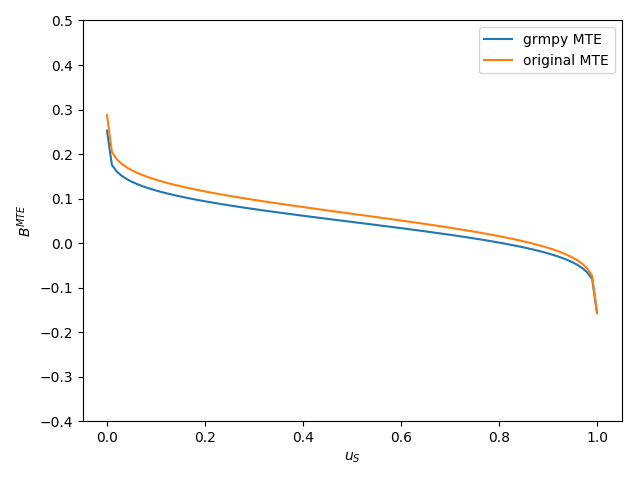
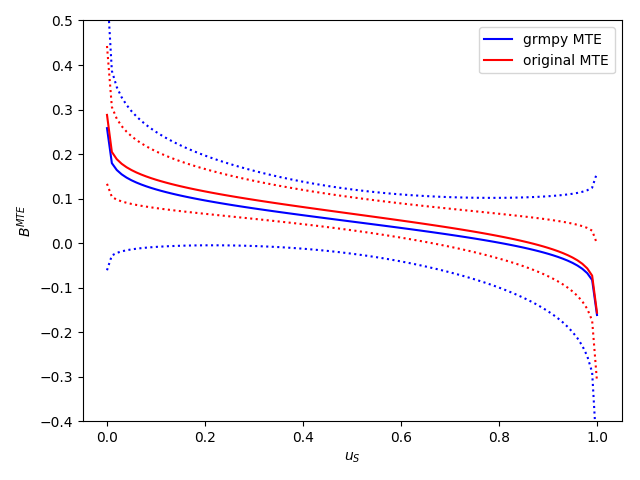
Added hessian matrix approximation tothe estimation process / Added ses to estimation output file / changed replication framework so that it provides the confidence intervals of the mte

diff --git a/grmpy/estimate/estimate_auxiliary.py b/grmpy/estimate/estimate_auxiliary.py
@@ -1,9 +1,11 @@
 """The module provides auxiliary functions for the estimation process"""
 from statsmodels.tools.sm_exceptions import PerfectSeparationError
+from statsmodels.tools.numdiff import approx_hess3
 from scipy.stats import norm
 import statsmodels.api as sm
 import pandas as pd
 import numpy as np
+import math
 
 from grmpy.simulate.simulate_auxiliary import construct_covariance_matrix
 from grmpy.simulate.simulate_auxiliary import simulate_unobservables
@@ -184,10 +186,13 @@ def calculate_criteria(init_dict, data_frame, start_values):
     return criteria
 
 
-def print_logfile(init_dict, rslt):
+def print_logfile(init_dict, rslt, data):
     """The function writes the log file for the estimation process."""
     # Adjust output
     init_dict, rslt = adjust_print_output(init_dict, rslt)
+    rslt = calculate_se(rslt, init_dict, data)
+    auxiliary_list = process_se_log(rslt, init_dict)
+    print(auxiliary_list)
     with open('est.grmpy.info', 'w') as file_:
 
         for label in ['Optimization Information', 'Criterion Function', 'Economic Parameters']:
@@ -234,11 +239,11 @@ def print_logfile(init_dict, rslt):
 
             else:
                 file_.write(fmt.format(*['', 'Identifier', 'Start', 'Finish']) + '\n\n')
-                fmt = '  {:>10}' * 2 + ' {:>20.4f}' * 2
+                fmt = '  {:>10}' * 2 + ' {:>20.4f}' * 2 + '{:>10}'
                 for i in range(len(rslt['AUX']['x_internal'])):
                     file_.write('{0}\n'.format(
                         fmt.format('', str(i), init_dict['AUX']['starting_values'][i],
-                                   rslt['AUX']['x_internal'][i])))
+                                   rslt['AUX']['x_internal'][i], auxiliary_list[i])))
 
 
 def optimizer_options(init_dict_):
@@ -604,3 +609,78 @@ def calculate_mte(rslt, data_frame, quant=None):
         return value, args
     else:
         return value
+
+
+def calculate_se(rslt, init_dict, data_frame):
+    """This function calculates the standard errors for given parameterization via an approximation
+    of the hessian matrix."""
+
+    x0 = process_estimation_results(rslt['AUX']['x_internal'].tolist())
+    hess = approx_hess3(x0, loglikelihood_without_cholsky, args=(init_dict, data_frame),
+                        epsilon=0.000001)
+    hess_inv = np.linalg.inv(hess)
+    se = np.sqrt(np.diag(hess_inv) / data_frame.shape[0])
+    rslt['AUX']['standard_errors'] = se
+    rslt['AUX']['hess_inv'] = hess_inv
+    return rslt
+
+
+def process_estimation_results(x0):
+    """This """
+    pseudo_x0 = x0[:-6]
+    pseudo_dist = [x0[-1]] + [x0[-6]] + x0[-4:-1]
+    x0 = pseudo_x0 + pseudo_dist
+    return x0
+
+
+def loglikelihood_without_cholsky(x, init_dict, data_frame):
+    """The function provides the log-likelihood function for the calculation of the standard errors.
+    """
+    n_treated = init_dict['AUX']['num_covars_treated']
+    n_untreated = n_treated + int(init_dict['AUX']['num_covars_untreated'])
+
+    beta1 = x[:n_treated]
+    beta0 = x[n_treated:n_untreated]
+    gamma = x[n_untreated:-5]
+    sd1, sd0, sdv, rho1v, rho0v = x[-4], x[-2], x[-5], x[-3], x[-1]
+    likl = []
+    indicator = init_dict['ESTIMATION']['indicator']
+    dep = init_dict['ESTIMATION']['dependent']
+    for i in [0.0, 1.0]:
+        if i == 1.0:
+            beta, gamma, rho, sd, sdv = beta1, gamma, rho1v, sd1, sdv
+            key_ = 'TREATED'
+        else:
+            beta, gamma, rho, sd, sdv = beta0, gamma, rho0v, sd0, sdv
+            key_ = 'UNTREATED'
+        data = data_frame[data_frame[indicator] == i]
+        Z = data[[init_dict['varnames'][j - 1] for j in init_dict['CHOICE']['order']]]
+        X = data[[init_dict['varnames'][j - 1] for j in init_dict[key_]['order']]]
+
+        choice_ = pd.DataFrame.sum(gamma * Z, axis=1)
+        part1 = (data[dep] - pd.DataFrame.sum(beta * X, axis=1)) / sd
+        part2 = (choice_ - rho * sdv * part1) / (np.sqrt((1 - rho ** 2) * sdv ** 2))
+        dist_1, dist_2 = norm.pdf(part1), norm.cdf(part2)
+
+        if i == 1.0:
+            contrib = (1.0 / sd) * dist_1 * dist_2
+
+        else:
+            contrib = (1.0 / sd) * dist_1 * (1.0 - dist_2)
+
+        likl.append(contrib)
+    likl = np.append(likl[0], likl[1])
+    likl = - np.mean(np.log(np.clip(likl, 1e-20, np.inf)))
+
+    return likl
+
+
+def process_se_log(rslt, init_dict):
+    """This function processes the standard error values for the log file."""
+    se = ['------' if math.isnan(i) else str(i) for i in np.round(rslt['AUX']['standard_errors'], 4)
+          ]
+    aux = [se[-4], '------', se[-3], se[-2], se[-1], se[-5]]
+    list_ = se[:-5]
+    list_ += aux
+    list_ = ['({})'.format(i) if len(i) == 6 else '({}0)'.format(i) for i in list_]
+    return list_

diff --git a/development/tests/robustness/run.py b/development/tests/robustness/run.py
@@ -2,12 +2,10 @@
 Additionally it returns a figure of the Marginal treatment effect based on the estimation results.
 """
 import matplotlib.pyplot as plt
-from os.path import join
-from shutil import move
+from scipy.stats import norm
 import pandas as pd
 import numpy as np
 import json
-import os
 
 from grmpy.estimate.estimate_auxiliary import calculate_mte
 from grmpy.estimate.estimate import estimate
@@ -19,31 +17,76 @@ def plot_est_mte(rslt, data_frame):
 
     # Define the Quantiles and read in the original results
     quantiles = [0.0001] + np.arange(0.01, 1., 0.01).tolist() + [0.9999]
-    mte_original = json.load(open('mte_original.json', 'r'))
+    mte_ = json.load(open('mte_original.json', 'r'))
+    mte_original = mte_[1]
+    mte_original_d = mte_[0]
+    mte_original_u = mte_[2]
 
-    # Calculate the MTE
+    # Calculate the MTE and confidence intervals
     mte = calculate_mte(rslt, data_frame, quantiles)
     mte = [i / 4 for i in mte]
-
+    mte_up, mte_d = calculate_cof_int(rslt, data_frame, mte, quantiles)
     # Plot both curves
     ax = plt.figure().add_subplot(111)
 
     ax.set_ylabel(r"$B^{MTE}$")
     ax.set_xlabel("$u_S$")
-    ax.plot(quantiles, mte, label='grmpy MTE')
-    ax.plot(quantiles, mte_original, label='original MTE')
+    ax.plot(quantiles, mte, label='grmpy MTE', color='blue')
+    ax.plot(quantiles, mte_up, color='blue', linestyle=':')
+    ax.plot(quantiles, mte_d, color='blue', linestyle=':')
+    ax.plot(quantiles, mte_original, label='original MTE', color='red')
+    ax.plot(quantiles, mte_original_d, color='red', linestyle=':')
+    ax.plot(quantiles, mte_original_u, color='red', linestyle=':')
+
     ax.set_ylim([-0.4, 0.5])
 
     plt.legend()
 
     plt.tight_layout()
     plt.savefig('fig-marginal-benefit-parametric-replication.png')
+    return mte
+
+
+def calculate_cof_int(rslt, data_frame, mte, quantiles):
+    """This function calculates the confidence interval of the marginal treatment effect."""
+
+    # Import parameters and inverse hessian matrix
+    hess_inv = rslt['AUX']['hess_inv'] / data_frame.shape[0]
+    params = rslt['AUX']['x_internal']
+
+    # Distribute parameters
+    dist_cov = hess_inv[-4:, -4:]
+    param_cov = hess_inv[:46, :46]
+    dist_gradients = np.array([params[-4], params[-6], params[-2], params[-3]])
+
+    # Process data
+    covariates = [rslt['varnames'][j - 1] for j in rslt['TREATED']['order']]
+    x = np.mean(data_frame[covariates]).tolist()
+    x_neg = [-i for i in x]
+    x += x_neg
+    x = np.array(x)
+
+    # Create auxiliary parameters
+    part1 = np.dot(x, np.dot(param_cov, x))
+    part2 = np.dot(dist_gradients, np.dot(dist_cov, dist_gradients))
+
+    # Prepare two lists for storing the values
+    mte_up = []
+    mte_d = []
+
+    # Combine all auxiliary parameters and calculate the confidence intervals
+    for counter, i in enumerate(quantiles):
+        value = part2 * (norm.ppf(i)) ** 2
+        aux = np.sqrt(part1 + value) / 4
+        mte_up += [mte[counter] + norm.ppf(0.95) * aux]
+        mte_d += [mte[counter] - norm.ppf(0.95) * aux]
+    print(mte_up, mte_d)
+
+    return mte_up, mte_d
 
 
 if __name__ == '__main__':
 
-    directory = os.path.dirname(os.path.realpath(__file__))
-    target = os.path.split(os.path.split(os.path.split(directory)[0])[0])[0] + '/docs/figures'
     filename = 'fig-marginal-benefit-parametric-replication.png'
 
     # Estimate the coefficients
@@ -51,7 +94,4 @@ if __name__ == '__main__':
 
     # Calculate and plot the marginal treatment effect
     data = pd.read_pickle('aer-replication-mock.pkl')
-    plot_est_mte(rslt, data)
-
-    # Move the plot to the documentation directory
-    move(join(directory, filename), join(target, filename))
+    mte = plot_est_mte(rslt, data)

diff --git a/grmpy/estimate/estimate.py b/grmpy/estimate/estimate.py
@@ -54,8 +54,9 @@ def estimate(init_file):
         opt_rslt = minimize(
             minimizing_interface, x0, args=(dict_, data, rslt_dict), method=method, options=opts)
         rslt = adjust_output(opt_rslt, dict_, opt_rslt['x'], rslt_dict)
+
     # Print Output files
-    print_logfile(dict_, rslt)
+    print_logfile(dict_, rslt, data)
     write_comparison(dict_, data, rslt)
 
     return rslt
